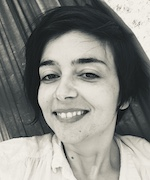
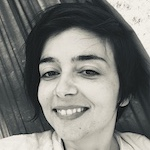
layout hover

diff --git a/index.html b/index.html
@@ -24,7 +24,7 @@
                 </div>
             </div>
             <div class="hover">
-                <img class="profil-mini" src="/images/profil.jpeg">
+                <img class="profil" src="/images/profil.jpg">
                 <h2> Qui suis-je ?</h2>
                 <h3> Céline Sèbe  </h3>
                 <p> Enseignante en reconversion dans le développement web fullstack </p>
@@ -40,28 +40,32 @@
         </div>
         <div class="card">
             <div class="title">
-                <img class="logo-js" src="/images/JS.png" alt="logo js">
+                <img class="skills" src="/images/skills.png" alt="logo js">
                 <h2> Compétences </h2>
             </div>
             <div class="hover">
-                <h2> Front </h2>
-                <ul>  
-                    <li> HTML5/CSS3</li>
-                    <li> React </li>
-                    <li> Angular </li>
-                    <li> Sass </li>
-                    <li> Bootstrap </li>
-                    <li> Figma </li>
-                </ul>
-                <h2>Back </h2>
+                <div class="skills-row">   
+                    <ul>  
+                        <h2>Front </h2><br>
+                        <li> HTML5/CSS3</li>
+                        <li> React </li>
+                        <li> Angular </li>
+                        <li> Sass </li>
+                        <li> Bootstrap </li>
+                        <li> Figma </li>
+                    </ul>
+                    
+                    <ul>
+                        <h2>Back </h2><br>
+                        <li> NodeJS </li>
+                        <li> Express </li>
+                        <li> MariaDB </li>
+                        <li> MySql</li>
+                        <li> MongoDB </li>
+                    </ul>
+                </div> 
                 <ul>
-                    <li> NodeJS </li>
-                    <li> Express </li>
-                    <li> MariaDB/MySql </li>
-                    <li> MongoDB </li>
-                </ul>
-                <h2>Environnement</h2>  
-                <ul>
+                    <h2>Environnement</h2><br>
                     <li> MacOS </li>
                     <li> Unix </li>
                     <li> Git </li>
@@ -71,28 +75,31 @@
         </div>
         <div class="card">
             <div class="title">
-                <img class="" src="" alt="logo expé">
+                <img class="skills" src="/images/formation.png" alt="logo expé">
                 <h2> Formation </h2>
             </div>
             <div class="hover">
-                <ul>
-                    <li> DU DÉVELOPPEUR FULLSTACK - ENSEEIHT Institut National Polytechnique<br>
-                        Octobre 2022 / Août 2023 Toulouse</li>
+                <div class="ens-list">
+                    <ul>
+                        <li> DU DÉVELOPPEUR FULLSTACK - ENSEEIHT Institut National Polytechnique<br>
+                            Octobre 2022 / Août 2023 Toulouse</li>
 
-                    <li> DÉVELOPPEUR WEB - OPENCLASSROOMS<br>
-                        Février 2022 / Août 2022 FullRemote</li>
+                        <li> DÉVELOPPEUR WEB - OPENCLASSROOMS<br>
+                            Février 2022 / Août 2022 FullRemote</li>
 
-                    <li> Master Biologie, Santé & Environnement - UBP<br>
-                        Septembre 2011 / Août 2013 Clermont-Ferrand</li>
+                        <li> Master Biologie, Santé & Environnement - UBP<br>
+                            Septembre 2011 / Août 2013 Clermont-Ferrand</li>
 
-                    <li> Licence Ecologie, Botanique, Ecosystèmes - UPS<br>
-                        Septembre 2008 / Août 2011 Toulouse</li>
-                </ul>
+                        <li> Licence Ecologie, Botanique, Ecosystèmes - UPS<br>
+                            Septembre 2008 / Août 2011 Toulouse</li>
+                    </ul>
+                </div>
+                    
             </div>   
         </div>
         <div class="card">
             <div class="title">
-                <img class="" src="" alt="logo projet">
+                <img class="projects" src="images/projects.png" alt="logo projet">
                 <h2> Projets </h2>
             </div>
             <div class="hover"><a href="projects.html">
@@ -110,28 +117,29 @@
         </div>
         <div class="card">
             <div class="title">
-                <img class="" src="" alt="logo expé">
+                <img class="expe" src="/images/expe.png" alt="logo expé">
                 <h2> Expériences </h2>
             </div>
             <div class="hover">
-                <div class="column">
-                    
-                    
+                <div class="expe-column">
                     <div class="BYG">
                         <img class="Logo-byg" src="/images/BYG.png">
-                        <h2> Développement fullstack - BYG Informatique</h2>
+                        <h3> Développement fullstack - BYG Informatique</h3>
                         <p> A partir de Février 2023</p>
                     </div>
                     <div class="Loqualis">
-                        <img class="Logo-loqualis" src="/images/loqualis.tiff">
-                        <h2> Développement front-end - Loqualis</h2>
-                        <p> Refonte du site, maquette Figma <br> Septembre 2022</p>
+                        <div class="loqualis-text">
+                            <h3> Développement front-end - Loqualis</h3>
+                            <p> Refonte du site, maquette Figma <br> Septembre 2022</p>    
+                        </div>
+                        <div class="loqualis-logo">
+                            <img class="Logo-loqualis" src="/images/loqualis.webp">
+                        </div>
                     </div>
                     <div class="enseignement">
-                        <img class="Logo-en" src="/images/en.png">
                         <div class="enseignement-text">
-                            <h2> Enseignement SVT - Prévention Santé Environnement </h2>
-                            <p> Conception, animation des cours | Coordinatrice TICE | Professeure principale | Organisation des filières | Labo <br> Septembre 2013/ Août 2022</p>
+                            <h3> Enseignement SVT - Prévention Santé Environnement </h3>
+                            <p> Conception, animation des cours | Coordinatrice TICE | Professeure principale | Labo <br> Septembre 2013/ Août 2022</p>
                         </div>
                     </div>
                 </div>
@@ -140,15 +148,18 @@
         </div>
         <div class="card">
             <div class="title">
-                <img class="" src="" alt="logo Hobbies">
+                <img class="drums" src="/images/drums.png" alt="logo Hobbies">
                 <h2> Hobbies </h2>
             </div>
             <div class="hover">
-                <ul>
-                    <li> Batteuse dans un groupe de reprise pop </li>
-                    <li> Ski de randonnées, raquettes dans les pyrénées </li>
-                    <li> Travaux de rénovation, décoration d'intérieur</li>
-                </ul>
+                <div class="drums-list">
+                    <ul>
+                        <li> Batteuse dans un groupe de reprise pop </li>
+                        <li> Ski de randonnées, raquettes dans les pyrénées </li>
+                        <li> Travaux de rénovation, décoration d'intérieur</li>
+                    </ul>
+                </div>
+                
             </div>
         </div>
     </div>

diff --git a/style.css b/style.css
@@ -1,11 +1,17 @@
 /*REGLAGES GENERAUX*/
-
+/* @import url("https://fonts.cdnfonts.com/css/quicksand");
+:root {
+    --blue: #0065fc;
+    --blueLight: #deebff;
+    --grey: #f2f2f2; */
+  /* } */
 
 
 *{
     box-sizing: border-box;
     margin: 0px;
     padding: 0px;
+    font-family: "quicksand", Tahoma, sans-serif;
 }
 
 html, body{
@@ -30,12 +36,11 @@ html, body{
     border: none;
     width: 80%; 
     min-height: 400px;
-    max-width: 500px;;
+    max-width: 500px;
     margin-top: 30px;
     border-radius: 15px;
-    padding: 5px;
     /* background-color: cornflowerblue; */
-    background: linear-gradient(-45deg, #ee7752, #e26a6aaa, #2385d5, #23d5ab);
+    background: linear-gradient(-45deg, #ee7752, #a1880daa, #2385d5, #23d5ab);
 	background-size: 400% 400%;
 	animation: gradient 15s ease infinite;
 }
@@ -51,16 +56,28 @@ html, body{
 		background-position: 0% 50%;
 	}
 }
+
+.title{
+    display: flex;
+    flex-direction: column;
+    justify-content: center;
+    
+}
+.title h2{
+    text-align: center;
+}
 .picture-profil{
     width: 100%;
     display: flex;
     justify-content: center;
+    opacity: 0.6;
 }
 
 
 .profil{
-    
+    border: 4px double white;
     width: max-content;
+    height: 150px;
     padding: 0px;
     border-radius: 50%;
     opacity: 0.85;
@@ -86,14 +103,13 @@ html, body{
     width: 50px;
 }
 
-.column{
-    display: flex;
-    flex-direction: column;
-}
 
 .hover{
     display:none;
-    animation: 5s ease-in-out;
+    min-height: 400px;
+    width: 100%;
+    font-size: medium;
+    line-height: 20px;
 }
 .card:hover .title{
     display: none;
@@ -102,8 +118,72 @@ html, body{
 .card:hover .hover{
     display: flex;
     flex-direction: column;
+    justify-content: center;
+    align-items: center;
     cursor: pointer;
+    border-radius: 15px;
+    background-color: rgb(198, 180, 100);
+    animation: rotate 3sec;
 }
+
+.card ul{
+    list-style: none;
+    margin: 15px;
+}
+.card ul li{
+    line-height: 20px;
+    border: 1px solid #deebff;
+    margin: 4px;
+    border-radius: 5px;
+    padding: 2px;
+    width: 200px;
+    text-align: center;
+}
+.card ul li:hover{
+    opacity: 0.7;
+}
+.card ul h2{
+    text-align: center;
+}
+
+.skills, .projects, .expe, .drums{
+    width: 200px;
+}
+.skills-row{
+    display: flex;
+    justify-content: center;
+    align-items: stretch;
+}
+
+.expe-column{
+    display: flex;
+    flex-direction: column;
+    justify-content: space-between;
+    font-size: 14px;
+    padding: 20px;
+}
+
+.Loqualis{
+    display: flex;
+    justify-content: space-between;
+}
+.Logo-loqualis{
+    width: 70px;
+}
+.drums-list ul li{
+    width: 300px;
+    margin: 20px;
+    padding: 10px;
+    text-align: center;
+}
+
+.ens-list ul li{
+    width: 300px;
+    margin: 20px;
+    padding: 10px;
+    text-align: center;
+}
+
 .enseignement{
     display: flex;
     justify-content: center;
@@ -116,6 +196,7 @@ html, body{
 .enseignement img{
     height: 100px;
 }
+
 
 footer{
     display: flex;
